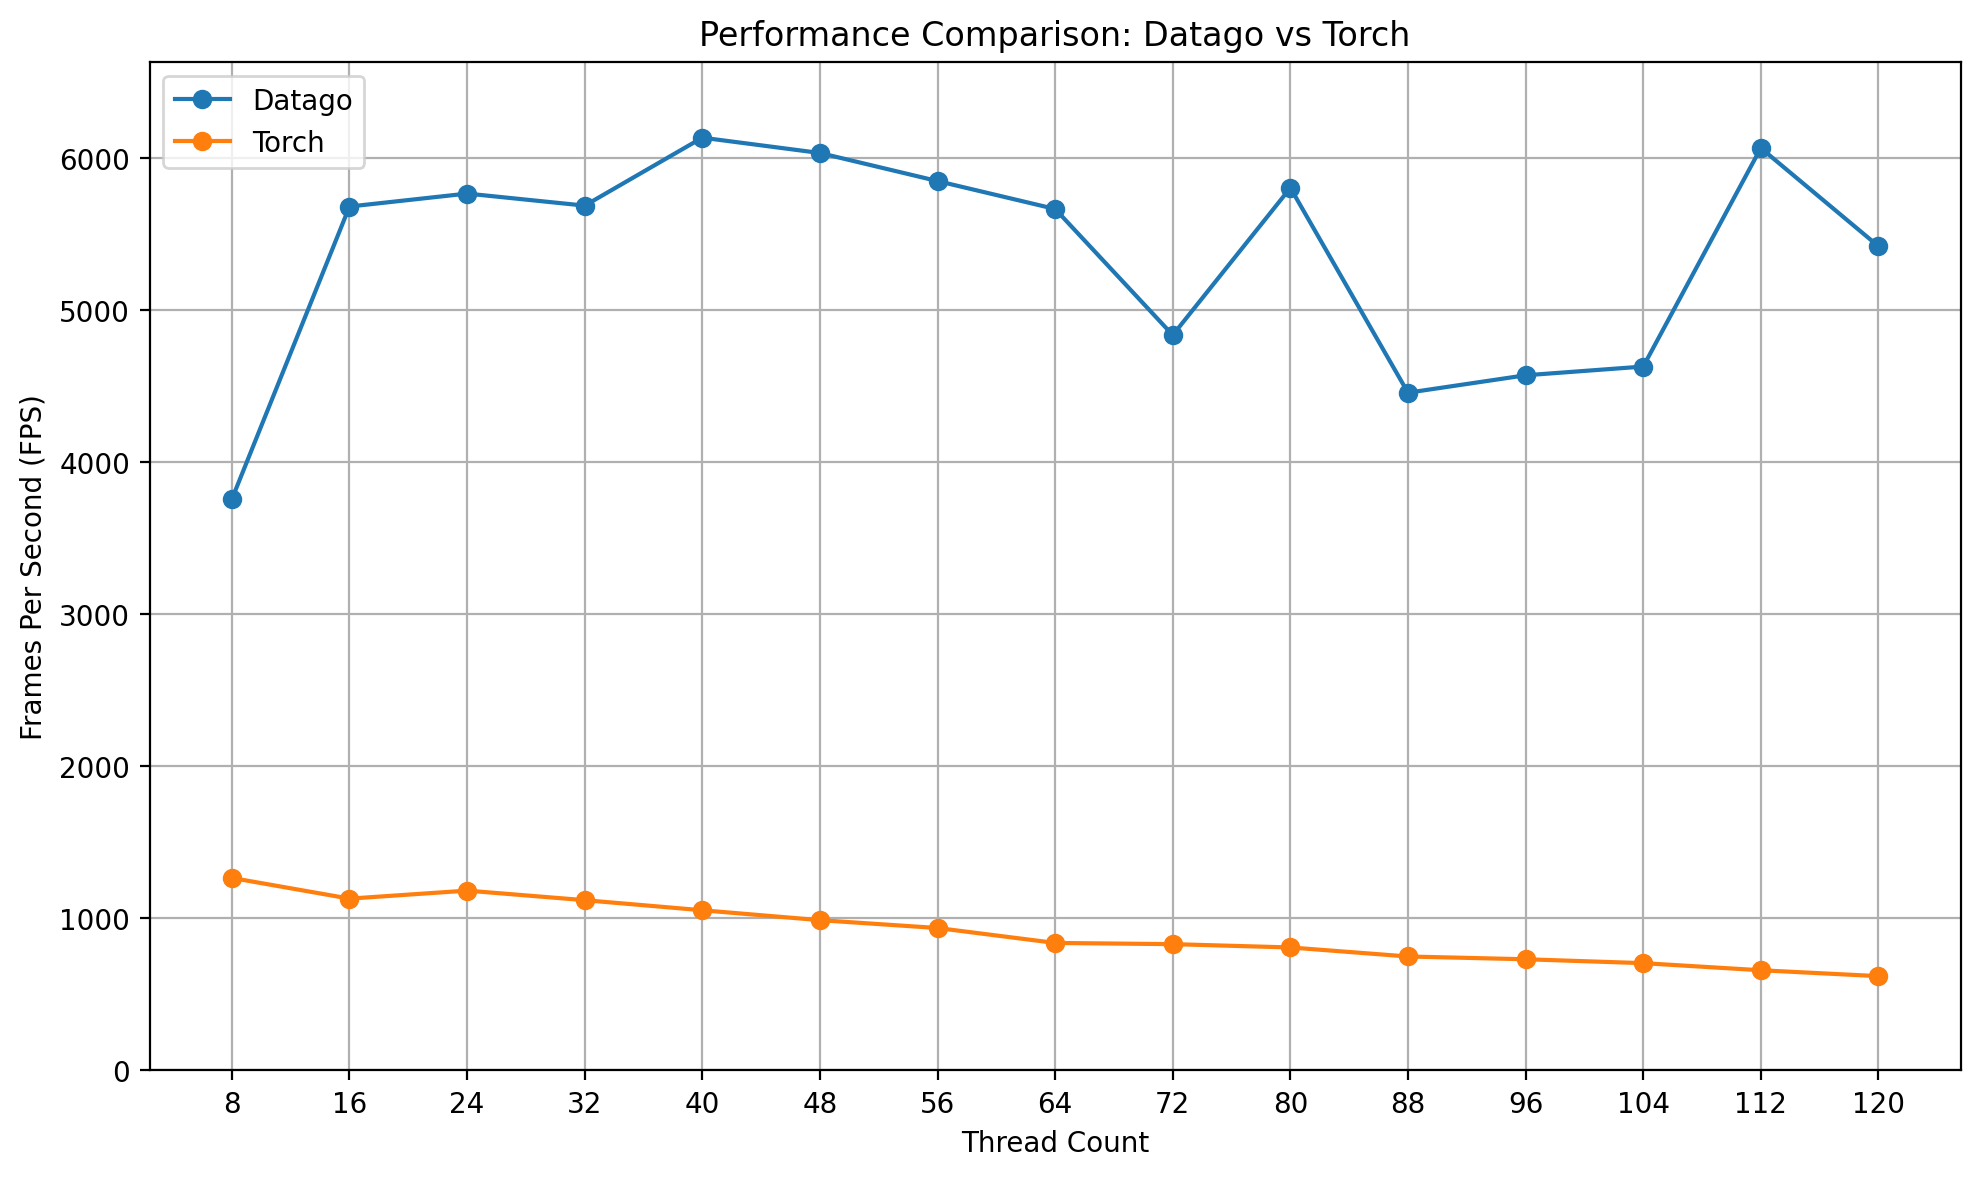
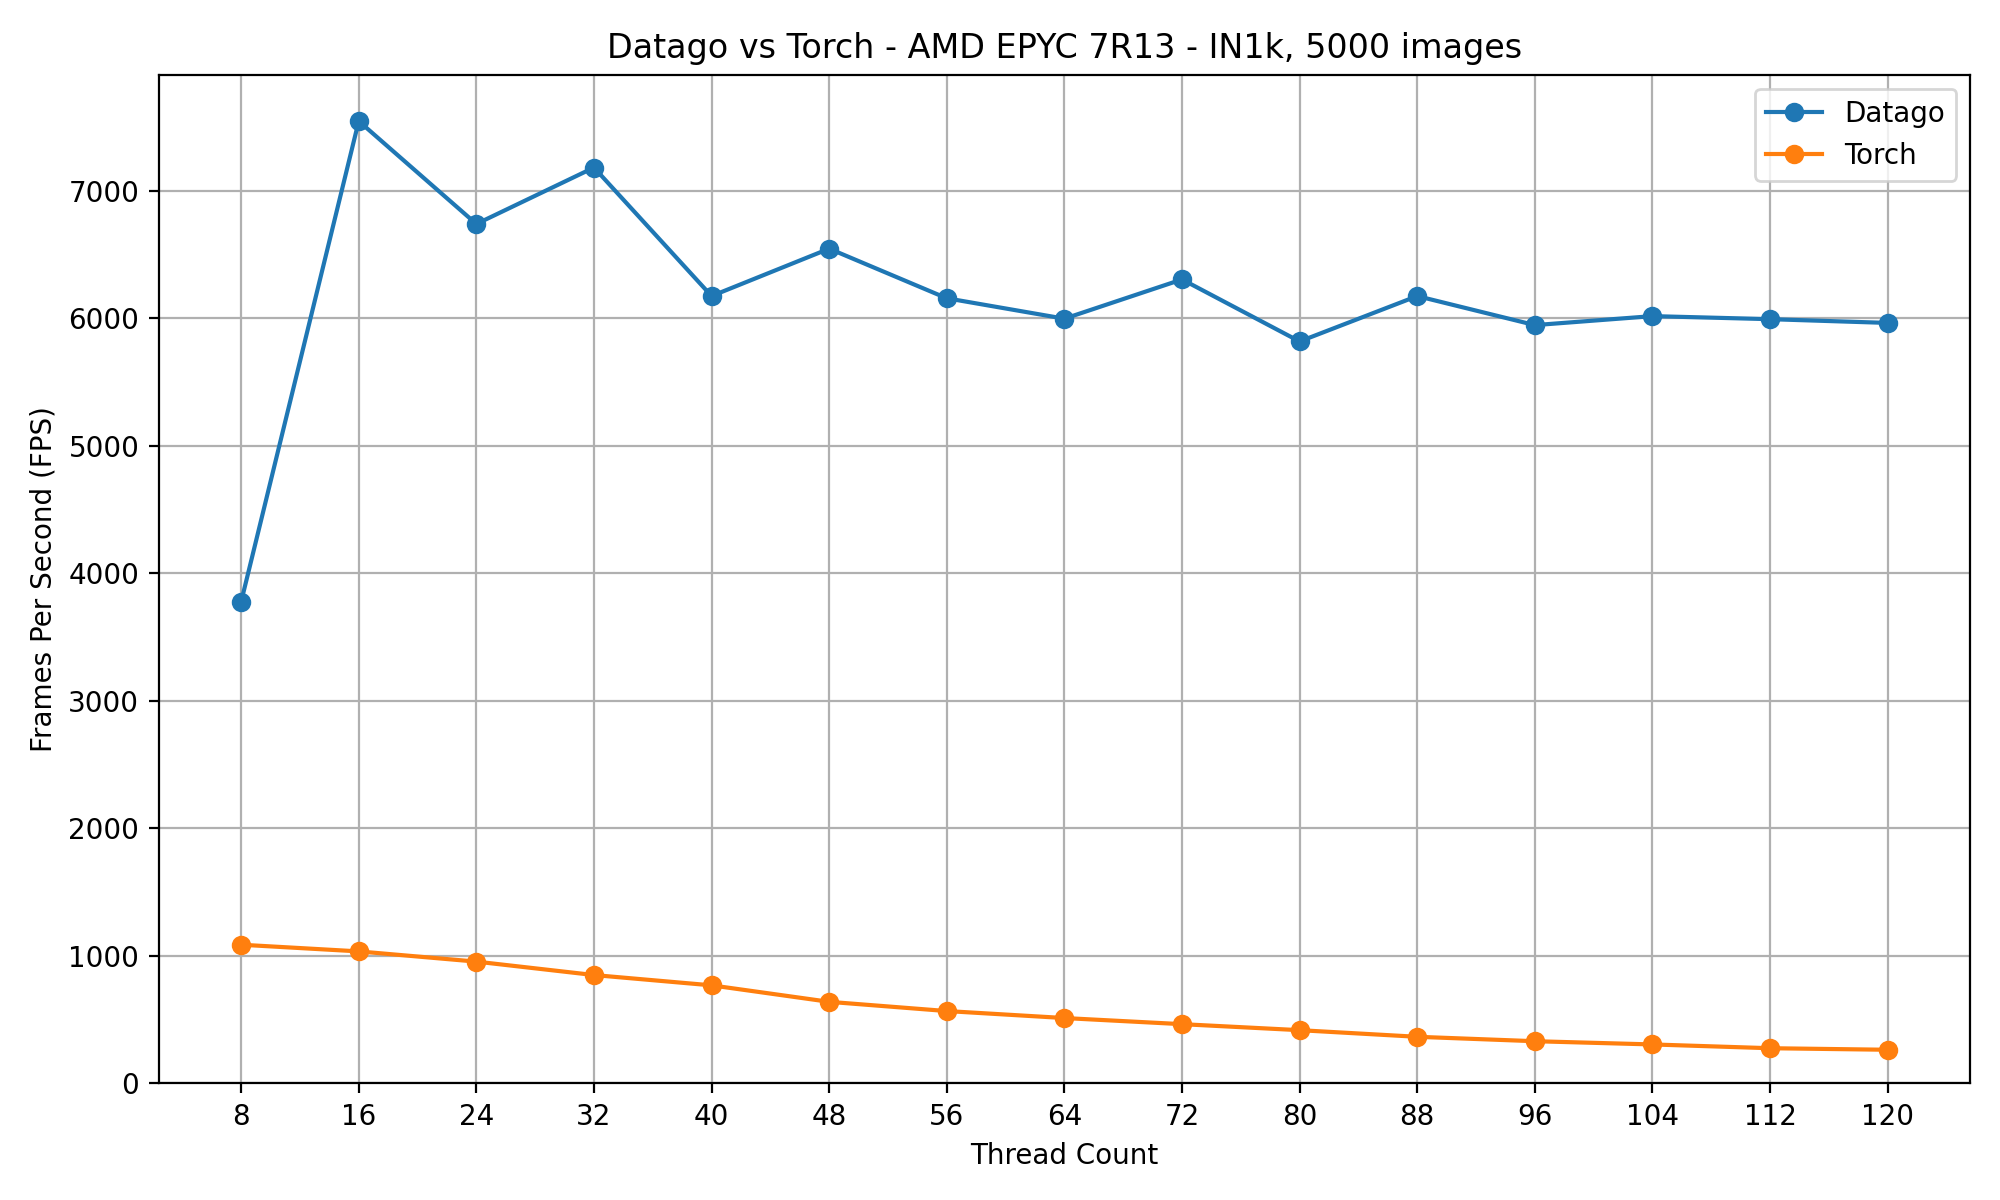
[nit] Refresh EPYC filesystem benchmark on an EPYC 7R13 (#179)
Re-run the IN1k filesystem sweep (8-120 workers, 5000 images, page cache,
PIL output) on a 2x48-core EPYC 7R13 and update the README wording and repro
limit to match. Torch workers use the fork start method for this plot.

diff --git a/README.md b/README.md
@@ -528,13 +528,15 @@ The following benchmarks are using ImageNet 1k, which is very low resolution and
 ### AMD Zen3 laptop - IN1k - disk - no processing
 ![AMD Zen3 laptop & M2 SSD](assets/zen3_ssd.png)
 
-### AMD EPYC 9454 - IN1k - disk - no processing
-![AMD EPYC 9454](assets/epyc_vast.png)
+### AMD EPYC 7R13 (2x48 cores) - IN1k - disk - no processing
+![AMD EPYC 7R13](assets/epyc_vast.png)
 
 One liner to repro locally (rebuilding the package):
 ```bash
-DATAGO_TEST_FILESYSTEM=$PATH_TO_YOUR_TEST_DATA uv run --reinstall-package datago --python 3.14 --group dev python/benchmark_filesystem.py --sweep --limit 500
+DATAGO_TEST_FILESYSTEM=$PATH_TO_YOUR_TEST_DATA uv run --reinstall-package datago --python 3.14 --group dev python/benchmark_filesystem.py --sweep --limit 5000
 ```
+The EPYC plot starts Torch workers with the `fork` method. Python 3.14 defaults to
+`forkserver`, which re-imports Torch in every worker and adds seconds of startup.
 
 ## Webdataset: FakeIN
 
